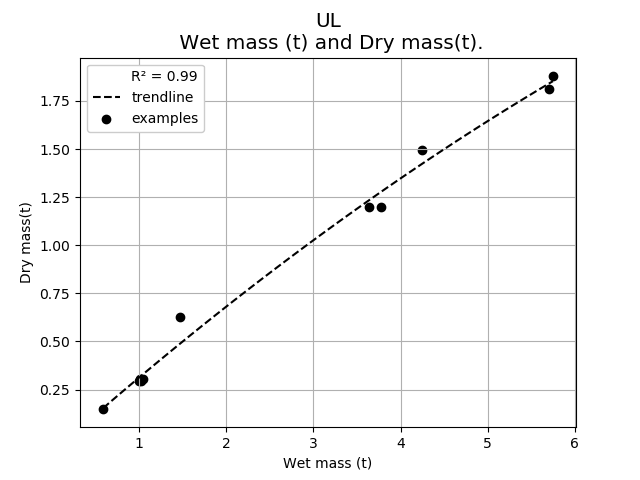
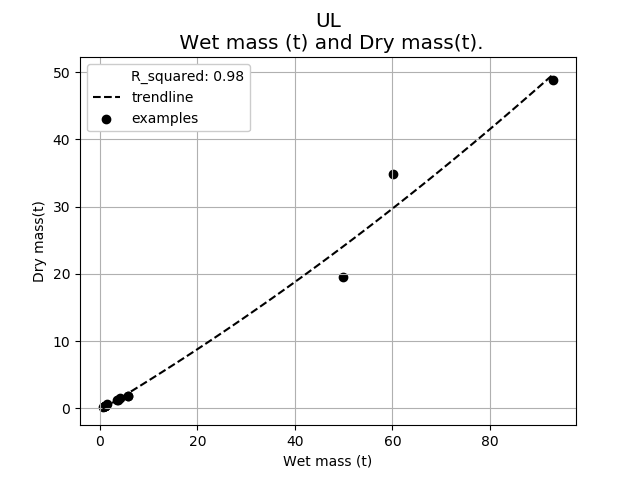
corrections to plotter, and the DB

diff --git a/database_slicer.py b/database_slicer.py
@@ -39,13 +39,13 @@ def plot(x, y, xlabel, ylabel, group):
 
 #%%
 #Plot what you want
-plot(UL["mass"][:-3], UL["dry mass"][:-3], "Wet mass (t)", "Dry mass(t)", "UL")
+#plot(UL["mass"], UL["dry mass"], "Wet mass (t)", "Dry mass(t)", "UL")
 plot(UL["mass"][:-5], UL["payload"][:-5], "Wet mass(t)", "Payload(t)", "UL")
-plot(UL["propellent"][:-3], UL["dry mass"][:-3], "Mass(t)", "Dry mass(t)", "UL")
+#plot(UL["propellent"], UL["dry mass"], "Mass(t)", "Dry mass(t)", "UL")
 
-plot(ML["mass"][:-3], ML["dry mass"][:-3], "Wet mass(t)", "Dry mass(t)", "ML")
-plot(ML["mass"][:-5], ML["payload"][:-5], "Wet mass(t)", "Payload(t)", "ML")
-plot(ML["propellent"][:-3], ML["dry mass"][:-3], "Mass(t)", "Dry mass(t)", "ML")
+#plot(ML["mass"], ML["dry mass"], "Wet mass(t)", "Dry mass(t)", "ML")
+#plot(ML["mass"], ML["payload"], "Wet mass(t)", "Payload(t)", "ML")
+#plot(ML["propellent"], ML["dry mass"], "Mass(t)", "Dry mass(t)", "ML")
 
 
 
